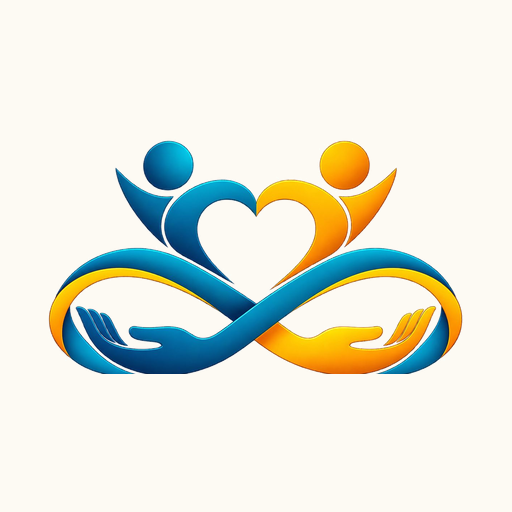
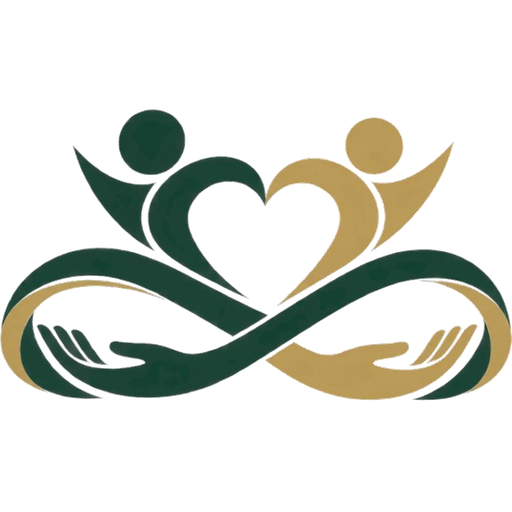
Centre the masthead on the new green and gold emblem
Swap in the green/gold emblem and give the logo a second lockup: the
emblem with the wordmark centred beneath it in the display serif, which
the public mastheads now use. The horizontal lockup stays in the UI sans
for product chrome, where the logo sits among other labels.

Below lg both public headers become a three-column grid — empty cell,
logo, menu button — so the logo lands dead centre whatever the button
beside it measures. From lg the row returns to logo-left, links centred,
call to action right. Scrolled into the island the logo goes compact, so
the pill stays slim.

diff --git a/components/Logo.tsx b/components/Logo.tsx
@@ -14,29 +14,52 @@ export function LogoMark({ className }: { className?: string }) {
     <Image
       src="/pradanam-mark.png"
       alt=""
-      width={1158}
-      height={661}
+      width={792}
+      height={455}
       priority
       className={cn('h-7 w-auto object-contain', className)}
     />
   );
 }
 
-/** Clicking the mark or the wordmark goes home, as a masthead should. */
+/**
+ * Two lockups, both clicking home as a masthead should.
+ *
+ * `stacked` is the primary one — the emblem with the wordmark centred beneath
+ * it, set in the display serif, as the brand sheet draws it. It is for the
+ * public mastheads, where the logo is the page's crown.
+ *
+ * The default horizontal lockup keeps the UI sans and sits on one line: inside
+ * product chrome (a dashboard rail, an auth card, a checkout step) the logo is
+ * a label among other labels, and the serif would shout over them.
+ */
 export function Logo({
   className,
   href = '/',
   compact = false,
+  stacked = false,
 }: {
   className?: string;
   href?: string;
   compact?: boolean;
+  stacked?: boolean;
 }) {
+  if (stacked && !compact) {
+    return (
+      <Link
+        href={href}
+        className={cn('group inline-flex flex-col items-center gap-1 text-ink', className)}
+      >
+        <LogoMark className="h-12 w-auto transition-transform duration-500 ease-[cubic-bezier(0.16,1,0.3,1)] group-hover:scale-105 sm:h-14" />
+        <span className="whitespace-nowrap font-display text-[12px] font-semibold uppercase leading-none tracking-[0.14em] text-brand sm:text-[13.5px]">
+          {BRAND_NAME}
+        </span>
+      </Link>
+    );
+  }
+
   return (
-    <Link
-      href={href}
-      className={cn('group inline-flex items-center gap-2 text-ink', className)}
-    >
+    <Link href={href} className={cn('group inline-flex items-center gap-2 text-ink', className)}>
       <LogoMark className="h-7 w-auto transition-transform duration-500 ease-[cubic-bezier(0.16,1,0.3,1)] group-hover:scale-105" />
       {/* Set tight: the emblem beside it is already wide, so a widely tracked
           wordmark pushed the whole block past half a phone's header. Enough

diff --git a/components/SiteHeader.tsx b/components/SiteHeader.tsx
@@ -45,13 +45,24 @@ export function SiteHeader() {
           open && 'bg-paper/95 shadow-[0_18px_50px_-20px_rgba(10,20,40,0.45)]'
         )}
       >
+        {/*
+          Below lg the masthead is centred: a three-column grid with an empty
+          cell opposite the menu button, so the logo sits dead centre however
+          wide the button is. From lg the row goes back to logo-left, links in
+          the middle, call to action right.
+        */}
         <nav
           className={cn(
-            'relative flex items-center justify-between transition-all duration-500 [transition-timing-function:cubic-bezier(0.16,1,0.3,1)]',
-            shaped ? 'py-2 pl-4 pr-2 sm:pl-5' : 'px-3 py-5 sm:px-6 lg:px-10'
+            'relative grid grid-cols-[1fr_auto_1fr] items-center transition-all duration-500 [transition-timing-function:cubic-bezier(0.16,1,0.3,1)] lg:flex lg:justify-between',
+            shaped ? 'py-2 pl-4 pr-2 sm:pl-5' : 'px-3 py-3.5 sm:px-6 lg:px-10 lg:py-5'
           )}
         >
-          <Logo compact={island} className="shrink-0" />
+          <span aria-hidden className="lg:hidden" />
+          <Logo
+            compact={island}
+            stacked={!island}
+            className="shrink-0 justify-self-center lg:justify-self-start"
+          />
 
           {/* Absolutely centred, so the links hold the middle whatever the logo
               and the button on either side are doing. */}
@@ -109,7 +120,7 @@ export function SiteHeader() {
 
           <button
             onClick={() => setOpen((v) => !v)}
-            className="flex size-10 shrink-0 items-center justify-center rounded-full text-ink transition-colors hover:bg-brand-wash hover:text-brand lg:hidden"
+            className="flex size-10 shrink-0 items-center justify-center justify-self-end rounded-full text-ink transition-colors hover:bg-brand-wash hover:text-brand lg:hidden"
             aria-label={open ? 'Close menu' : 'Open menu'}
             aria-expanded={open}
           >

diff --git a/components/donate/RestaurantView.tsx b/components/donate/RestaurantView.tsx
@@ -113,16 +113,23 @@ export function RestaurantView({ restaurant, items, partners, activeBatches, rec
               : 'mt-0 max-w-[1600px] rounded-[0px] bg-paper/80 backdrop-blur-xl'
           )}
         >
+          {/* Centred the same way as the site masthead — empty cell, logo,
+              link — so the two public headers read as one. */}
           <div
             className={cn(
-              'flex items-center justify-between transition-all duration-500 [transition-timing-function:cubic-bezier(0.16,1,0.3,1)]',
+              'grid grid-cols-[1fr_auto_1fr] items-center transition-all duration-500 [transition-timing-function:cubic-bezier(0.16,1,0.3,1)] sm:flex sm:justify-between',
               headerIsland ? 'py-2 pl-4 pr-4 sm:pl-5' : 'px-3 py-3.5 sm:px-6 lg:px-10'
             )}
           >
-            <Logo compact={headerIsland} />
+            <span aria-hidden className="sm:hidden" />
+            <Logo
+              compact={headerIsland}
+              stacked={!headerIsland}
+              className="justify-self-center sm:justify-self-start"
+            />
             <Link
               href="/track"
-              className="text-[13.5px] tracking-[-0.022em] text-ink-soft transition-colors hover:text-brand"
+              className="justify-self-end text-[13.5px] tracking-[-0.022em] text-ink-soft transition-colors hover:text-brand"
             >
               Track Donation
             </Link>
